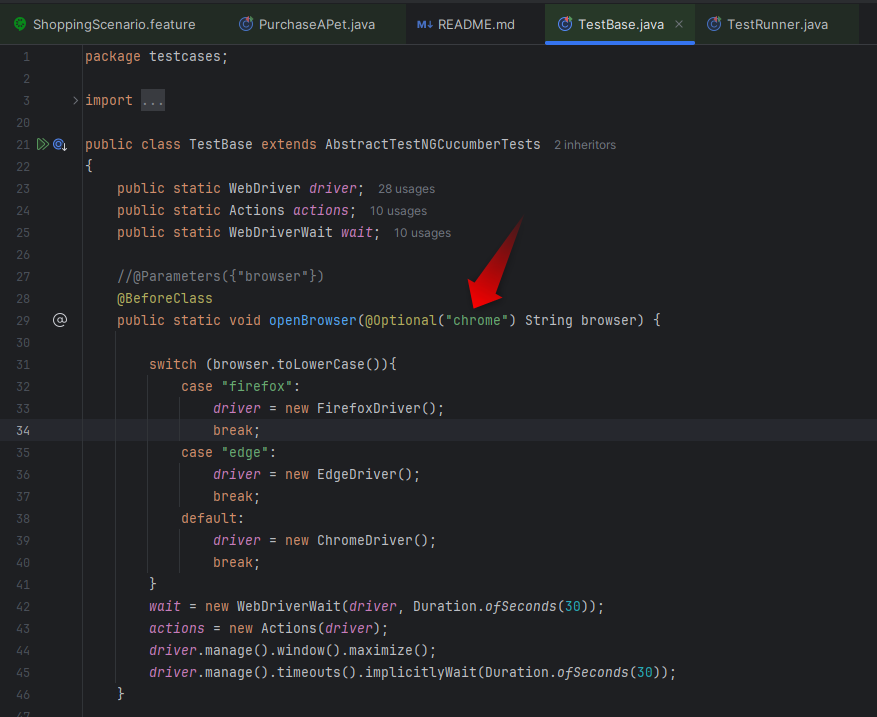
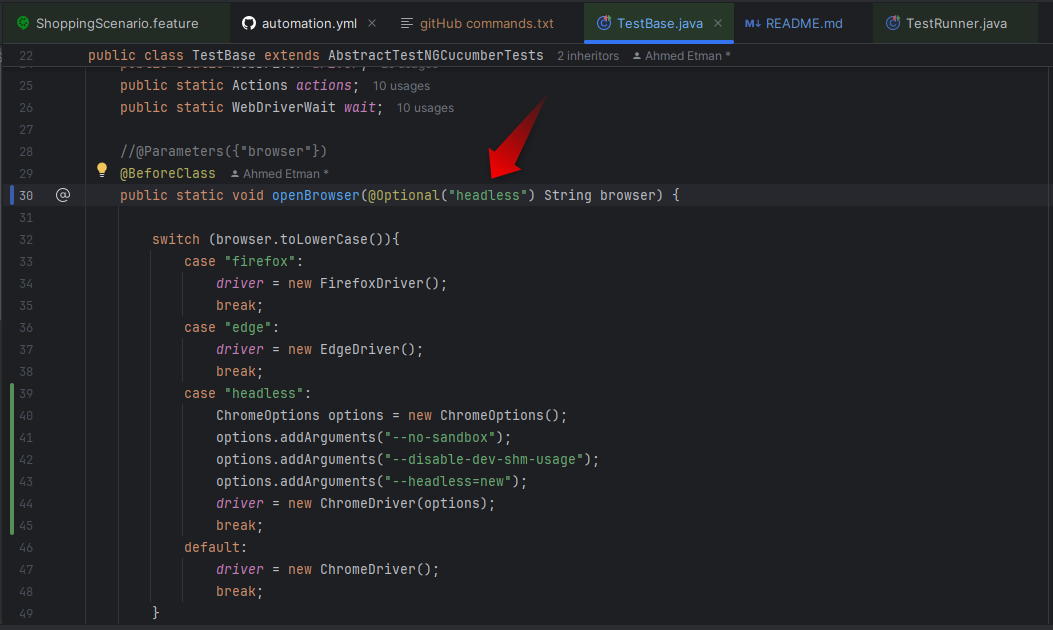
update README.md and TestBase

diff --git a/src/test/java/testcases/TestBase.java b/src/test/java/testcases/TestBase.java
@@ -6,6 +6,7 @@ import org.openqa.selenium.OutputType;
 import org.openqa.selenium.TakesScreenshot;
 import org.openqa.selenium.WebDriver;
 import org.openqa.selenium.chrome.ChromeDriver;
+import org.openqa.selenium.chrome.ChromeOptions;
 import org.openqa.selenium.edge.EdgeDriver;
 import org.openqa.selenium.firefox.FirefoxDriver;
 import org.openqa.selenium.interactions.Actions;
@@ -26,7 +27,7 @@ public class TestBase extends AbstractTestNGCucumberTests
 
     //@Parameters({"browser"})
     @BeforeClass
-    public static void openBrowser(@Optional("chrome") String browser) {
+    public static void openBrowser(@Optional("headless") String browser) {
 
         switch (browser.toLowerCase()){
             case "firefox":
@@ -34,6 +35,13 @@ public class TestBase extends AbstractTestNGCucumberTests
                 break;
             case "edge":
                 driver = new EdgeDriver();
+                break;
+            case "headless":
+                ChromeOptions options = new ChromeOptions();
+                options.addArguments("--no-sandbox");
+                options.addArguments("--disable-dev-shm-usage");
+                options.addArguments("--headless=new");
+                driver = new ChromeDriver(options);
                 break;
             default:
                 driver = new ChromeDriver();

diff --git a/README.md b/README.md
@@ -152,6 +152,7 @@ Here is the complete test execution flow:
   - Change **"chrome"** with one of the following:
     - **"firefox"**: to run tests on firefox browser
     - **"edge"**: to run tests on edge browser
+    - "headless": to run tests with headless (choose it if you'll run test from pipeline)
 - Step definitions use dynamic variables:
   - **static String userID = "", password = "", firstName = "";**
   - If registration fails, the test falls back to alternative user credentials from the feature file.
